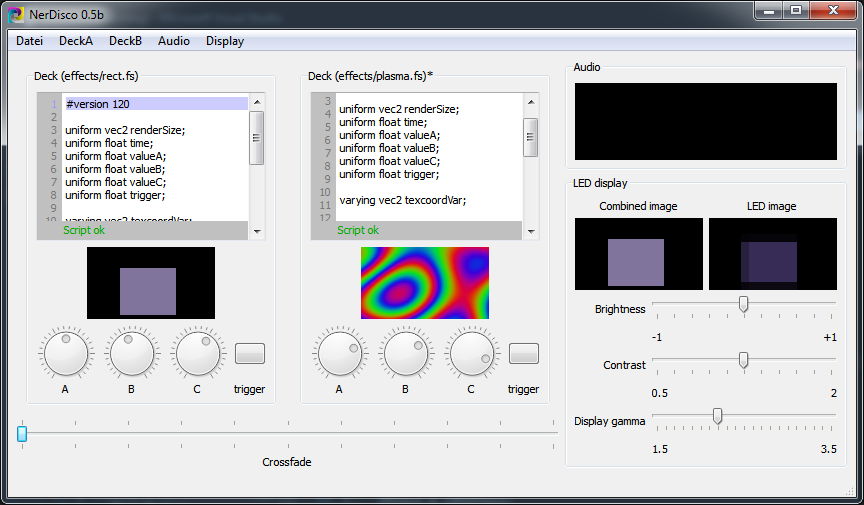
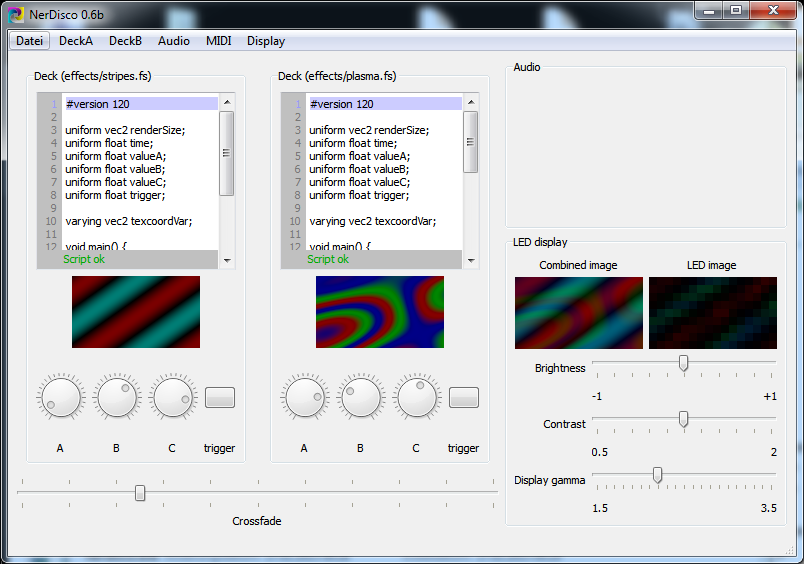
Update README regarding (Rt)MIDI

diff --git a/README.md b/README.md
@@ -2,14 +2,15 @@ NerDisco
 ========
 
 Is a simple VJ tool leveraging OpenGL/GLSL to provide live-editing functions and is meant to be connected to a [Boblight](https://code.google.com/p/boblight/) display of the ["Adalight"](http://www.adafruit.com/product/461) type via a serial port. It was tested with an Arduino Pro connected to an LED strip using [LPD8806 chips](http://www.adafruit.com/product/306). The code running on the Arduino was [Adalights' LPD8806 LEDstream sketch](https://github.com/adafruit/Adalight/blob/master/Arduino/LEDstream_LPD8806/LEDstream_LPD8806.pde). The code was compiled and tested on a Windows 7 and Ubuntu 14.04 machine and may or may not work on other systems.
-It is in parts inspired by the live shader-editing tool [quint](https://gitorious.org/quint). So hats off to those guys...
+It is in parts inspired by the live shader-editing tool [quint](https://gitorious.org/quint) and uses the nice [RtMidi](https://github.com/thestk/rtmidi) library for MIDI controller input. So hats off to those guys...
 
-Please note that the tool was rather quickly hacked together for a party and obviously needs some heavy refactoring and improvements. Planned features are some audio input facilities, so e.g. the music spectrum can be used in the scripts and MIDI controller input for the dials/triggers for better interaction.
+Please note that the tool was rather quickly hacked together for a party and obviously needs some refactoring and improvements. Planned features are some audio input facilities, so e.g. the music spectrum can be used in the scripts.
 
 License
 ========
 
-[BSD-2-Clause](http://opensource.org/licenses/BSD-2-Clause), see [LICENSE.md](LICENSE.md).
+[BSD-2-Clause](http://opensource.org/licenses/BSD-2-Clause), see [LICENSE.md](LICENSE.md.).  
+For [RtMidi](https://github.com/thestk/rtmidi), see [the RtMidi readme](https://github.com/thestk/rtmidi/blob/master/readme).
 
 Building
 ========
@@ -35,6 +36,7 @@ make
 
 The Qt framework version 5.1 or higher is required for GUI, audio and serial port functionality. You might need to additionally install the "qtmultimedia5-dev" package for audio input support.
 If NerDisco does not find any audio devices your system might lack the [Qt5 multimedia plugins](http://stackoverflow.com/questions/21939759/qaudiodeviceinfo-finds-no-default-audio-device-on-ubuntu). Install the "libqt5multimedia5-plugins" package.
+[RtMidi](https://github.com/thestk/rtmidi) is used for MIDI input support (thank you!). It should come to you as an external GIT submodule in the "\rtmidi" subfolder. If it is not there, put it there...
 G++ 4.7 (for C++11) might be needed to compile NerDisco. For installing G++ 4.7 see [here](http://lektiondestages.blogspot.de/2013/05/installing-and-switching-gccg-versions.html).
 
 Overview
@@ -43,7 +45,6 @@ Overview
 
 Scripts
 ========
-
 The render scripts are actually GLSL 1.20 fragment shaders. Those ".fs" script files are read from the "effects" directory and should have the extension ".fs" to be found and displayed in the menu.
 The dials A-C and the trigger button can be used in scripts via the float uniform variables "valueA", "valueB", "valueC" and "trigger". Dial values range from [0,1] and trigger [false,true].
 Also the uniforms "vec2 renderSize" (render area pixel resolution) and "float time" (application runtime in seconds) are available. A good example is "rect.fs" in the effects sub directory.
@@ -62,12 +63,19 @@ varying vec2 texcoordVar;
 void main() {
 	float l = texcoordVar.x > 0.2+0.1*sin(time) ? (texcoordVar.x < 0.8+0.2*sin(0.88*time+1) ? 1 : 0) : 0;
 	l = texcoordVar.y > 0.2+0.1*sin(0.69*time) ? (texcoordVar.y < 0.8+0.2*sin(0.45*time) ? l : 0) : 0;
-	float r = l * valueA + trigger;
-	float g = l * valueB + trigger;
-	float b = l * valueC + trigger;
+	float r = l * valueA + 0.1 * trigger;
+	float g = l * valueB + 0.1 * trigger;
+	float b = l * valueC + 0.1 * trigger;
 	gl_FragColor = vec4(r, g, b, 1.0);
 }
 ```
+
+MIDI controllers
+========
+The dials A-C, the trigger buttons in both decks and the crossfader can be controller via MIDI controllers. NerdDisco can learn a MIDI to GUI control mapping if you select a MIDI device and start capturing from it.
+Then select the "Learn MIDI->control mapping" menu entry. Turn the dial, push the trigger or move fader you want to connect, then move the physical MIDI control element. The two should be connected and the GUI should follow the MIDI control.
+You can still choose a different GUI element or MIDI control until you select the menu option "Store learned connection" (to store the current connection) or leave the learn mode again via "Learn MIDI->control mapping".
+Then all stored connections you have made before should work.
 
 FAQ
 ========
